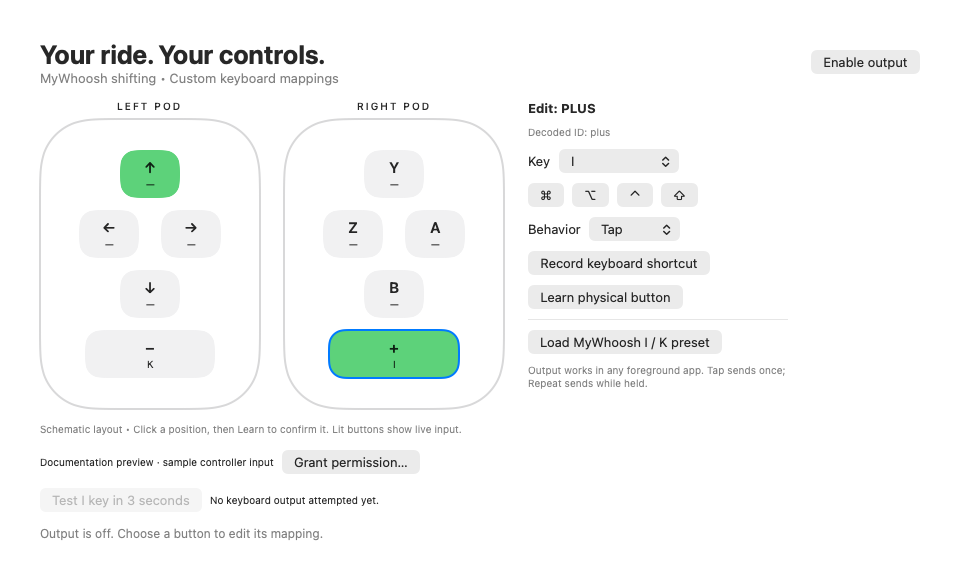
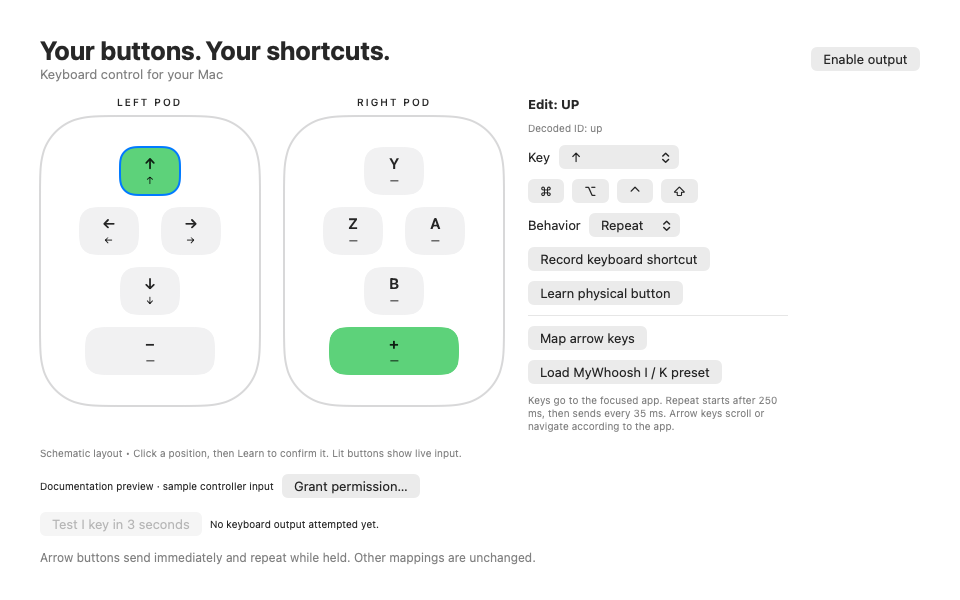
scroll action (long press)

diff --git a/Sources/ClickDiagnostic/Mapping.swift b/Sources/ClickDiagnostic/Mapping.swift
@@ -8,10 +8,28 @@ struct KeyBinding: Codable, Equatable {
     var modifiers: UInt64 = 0
     var mode = "Tap"
     var assigned = false
+    var longPress: String? = nil
+    var scrollSpeed: Int? = nil
     var displayLabel: String {
         guard assigned else { return "—" }
         let flags: [(CGEventFlags, String)] = [(.maskControl, "⌃"), (.maskAlternate, "⌥"), (.maskShift, "⇧"), (.maskCommand, "⌘")]
         return flags.filter { modifiers & $0.0.rawValue != 0 }.map { $0.1 }.joined() + label
+    }
+}
+
+enum KeyboardEvents {
+    static func make(code: UInt16, down: Bool, modifiers: UInt64, repeating: Bool) -> CGEvent? {
+        guard let event = CGEvent(keyboardEventSource: CGEventSource(stateID: .hidSystemState), virtualKey: code, keyDown: down) else { return nil }
+        var flags = CGEventFlags(rawValue: modifiers)
+        // Arrow keys are navigation/function keys, not ordinary printable keys.
+        let arrows: [UInt16: UniChar] = [123: 0xF702, 124: 0xF703, 125: 0xF701, 126: 0xF700]
+        if var character = arrows[code] {
+            flags.formUnion([.maskNumericPad, .maskSecondaryFn])
+            event.keyboardSetUnicodeString(stringLength: 1, unicodeString: &character)
+        }
+        event.flags = flags
+        event.setIntegerValueField(.keyboardEventAutorepeat, value: down && repeating ? 1 : 0)
+        return event
     }
 }
 
@@ -40,7 +58,7 @@ final class Mapper: ObservableObject {
     @Published var permissionStatus = "Checking permissions…"
     var onOutput: ((String) -> Void)?
     private var testWork: DispatchWorkItem?
-    var emit: (UInt16, Bool, UInt64) -> Void = { _, _, _ in }
+    var emit: (UInt16, Bool, UInt64, Bool) -> Void = { _, _, _, _ in }
     func report(_ text: String) { outputStatus = text; onOutput?("Keyboard: " + text) }
     var blockedReason: String {
         if !enabled { return "Output disabled." }
@@ -67,11 +85,10 @@ final class Mapper: ObservableObject {
     init(defaults: UserDefaults = .standard, outputContext: @escaping () -> Bool = Mapper.isOutputContextAllowed) {
         self.defaults = defaults
         self.outputContext = outputContext
-        emit = { [weak self] code, down, flags in
-            guard let event = CGEvent(keyboardEventSource: CGEventSource(stateID: .hidSystemState), virtualKey: code, keyDown: down) else {
+        emit = { [weak self] code, down, flags, repeating in
+            guard let event = KeyboardEvents.make(code: code, down: down, modifiers: flags, repeating: repeating) else {
                 self?.report("Failed to create keyboard event."); return
             }
-            event.flags = CGEventFlags(rawValue: flags)
             event.post(tap: .cghidEventTap)
             if down {
                 let target = NSWorkspace.shared.frontmostApplication?.localizedName ?? "unknown app"
@@ -80,7 +97,20 @@ final class Mapper: ObservableObject {
         }
         sources = defaults.dictionary(forKey: "sources.v1") as? [String: String] ?? Dictionary(uniqueKeysWithValues: Self.slots.map { ($0, $0) })
         if let data = defaults.data(forKey: "bindings.v1"), let saved = try? JSONDecoder().decode([String: KeyBinding].self, from: data) { bindings = saved }
-        else { preset() }
+        else {
+            bindings = Dictionary(uniqueKeysWithValues: Self.slots.map { ($0, KeyBinding()) })
+            navigationPreset()
+        }
+        // Migrate the retired wheel-scrolling configuration to repeating arrow keys.
+        for (slot, var binding) in bindings where binding.longPress != nil {
+            let arrows: [String: (UInt16, String)] = ["Scroll up": (126, "↑"), "Scroll down": (125, "↓"), "Scroll left": (123, "←"), "Scroll right": (124, "→")]
+            if let arrow = arrows[binding.longPress ?? ""] {
+                binding.code = arrow.0; binding.label = arrow.1; binding.assigned = true; binding.mode = "Repeat"
+            }
+            binding.longPress = nil; binding.scrollSpeed = nil
+            bindings[slot] = binding
+        }
+        save()
         focusObserver = NSWorkspace.shared.notificationCenter.addObserver(forName: NSWorkspace.didActivateApplicationNotification, object: nil, queue: .main) { [weak self] _ in self?.releaseAll() }
         sleepObserver = NSWorkspace.shared.notificationCenter.addObserver(forName: NSWorkspace.willSleepNotification, object: nil, queue: .main) { [weak self] _ in self?.enabled = false }
         refreshPermissions()
@@ -161,34 +191,49 @@ final class Mapper: ObservableObject {
         for source in up { stop(source) }
         guard allowed else { releaseAll(); if !down.isEmpty { report(blockedReason) }; return }
         for source in down {
-            guard let slot = Self.slots.first(where: { sources[$0] == source }), let binding = bindings[slot], binding.assigned else { report("\(source) has no keyboard mapping. Only plus/minus are mapped by default."); continue }
-            if binding.mode == "Hold" {
+            guard let slot = Self.slots.first(where: { sources[$0] == source }), let binding = bindings[slot], binding.assigned else { report("\(source) has no keyboard mapping. Choose a key in the mapper."); continue }
+            if binding.mode == "Hold" || binding.mode == "Repeat" {
                 let alreadyHeld = held.values.contains { $0.code == binding.code }
                 held[source] = binding
-                if !alreadyHeld { emit(binding.code, true, binding.modifiers) }
+                if !alreadyHeld { emit(binding.code, true, binding.modifiers, false) }
+                if binding.mode == "Repeat" {
+                    let delay = Timer(timeInterval: 0.25, repeats: false) { [weak self] _ in
+                        guard let self else { return }
+                        guard self.allowed, self.pressed.contains(source) else { self.releaseAll(); return }
+                        self.emit(binding.code, true, binding.modifiers, true)
+                        let timer = Timer(timeInterval: 0.035, repeats: true) { [weak self] _ in
+                            guard let self else { return }
+                            guard self.allowed, self.pressed.contains(source) else { self.releaseAll(); return }
+                            self.emit(binding.code, true, binding.modifiers, true)
+                        }
+                        self.repeating[source] = timer
+                        RunLoop.main.add(timer, forMode: .common)
+                    }
+                    repeating[source] = delay
+                    RunLoop.main.add(delay, forMode: .common)
+                }
             } else {
                 tap(binding)
-                if binding.mode == "Repeat" {
-                    var ticks = 0
-                    repeating[source] = Timer.scheduledTimer(withTimeInterval: 0.15, repeats: true) { [weak self] _ in
-                        guard let self else { return }
-                        guard self.allowed else { self.releaseAll(); return }
-                        ticks += 1
-                        if ticks >= 3 { self.tap(binding) }
-                    }
-                }
             }
         }
+    }
+    func navigationPreset() {
+        releaseAll()
+        for (slot, code, label) in [("up", UInt16(126), "↑"), ("down", 125, "↓"), ("left", 123, "←"), ("right", 124, "→")] {
+            bindings[slot] = KeyBinding(code: code, label: label, mode: "Repeat", assigned: true)
+        }
+        save()
+        message = "Arrow buttons send immediately and repeat while held. Other mappings are unchanged."
     }
     private func tap(_ binding: KeyBinding) {
         // Do not release a key another physical button is holding.
         guard !held.values.contains(where: { $0.code == binding.code }) else { return }
-        emit(binding.code, true, binding.modifiers); emit(binding.code, false, binding.modifiers)
+        emit(binding.code, true, binding.modifiers, false); emit(binding.code, false, binding.modifiers, false)
     }
     private func stop(_ source: String) {
         repeating.removeValue(forKey: source)?.invalidate()
         if let binding = held.removeValue(forKey: source), !held.values.contains(where: { $0.code == binding.code }) {
-            emit(binding.code, false, binding.modifiers)
+            emit(binding.code, false, binding.modifiers, false)
         }
     }
     func releaseAll() { for source in Array(repeating.keys) { stop(source) }; for source in Array(held.keys) { stop(source) } }
@@ -226,8 +271,8 @@ struct MapperView: View {
         VStack(alignment: .leading, spacing: 14) {
             HStack {
                 VStack(alignment: .leading) {
-                    Text("Your ride. Your controls.").font(.largeTitle.bold())
-                    Text("MyWhoosh shifting • Custom keyboard mappings").foregroundStyle(.secondary)
+                    Text("Your buttons. Your shortcuts.").font(.largeTitle.bold())
+                    Text("Keyboard control for your Mac").foregroundStyle(.secondary)
                 }
                 Spacer()
                 Button(mapper.enabled ? "Disable output" : "Enable output") { if mapper.enabled { mapper.enabled = false } else { mapper.enable() } }.buttonStyle(.borderedProminent)
@@ -240,7 +285,7 @@ struct MapperView: View {
                     Text("Decoded ID: \(mapper.sources[mapper.selected] ?? "—")").font(.caption).foregroundStyle(.secondary)
                     Picker("Key", selection: Binding(get: { binding.assigned ? Int(binding.code) : -1 }, set: { code in
                         var value = binding; value.assigned = code >= 0
-                        if let choice = KeyChoice.all.first(where: { Int($0.code) == code }) { value.code = choice.code; value.label = choice.name }
+                        if let choice = KeyChoice.all.first(where: { Int($0.code) == code }) { value.code = choice.code; value.label = choice.name; if (123...126).contains(choice.code) { value.mode = "Repeat" } }
                         mapper.update(value)
                     })) {
                         Text("Unassigned").tag(-1)
@@ -259,8 +304,9 @@ struct MapperView: View {
                     Button(mapper.recording ? "Cancel recording" : "Record keyboard shortcut") { if mapper.recording { mapper.cancelRecording() } else { mapper.recordKey() } }
                     Button(mapper.learning ? "Cancel learning" : "Learn physical button") { mapper.learn() }
                     Divider()
+                    Button("Map arrow keys") { mapper.navigationPreset() }
                     Button("Load MyWhoosh I / K preset") { mapper.preset() }
-                    Text("Output works in any foreground app. Tap sends once; Repeat sends while held.").font(.caption).foregroundStyle(.secondary).fixedSize(horizontal: false, vertical: true)
+                    Text("Keys go to the focused app. Repeat starts after 250 ms, then sends every 35 ms. Arrow keys scroll or navigate according to the app.").font(.caption).foregroundStyle(.secondary).fixedSize(horizontal: false, vertical: true)
                 }.frame(width: 260)
             }
             Text("Schematic layout • Click a position, then Learn to confirm it. Lit buttons show live input.").font(.caption).foregroundStyle(.secondary)

diff --git a/Tests/MapperTests.swift b/Tests/MapperTests.swift
@@ -17,7 +17,12 @@ func XCTAssertGreaterThan(_ actual: Int, _ expected: Int) { precondition(actual 
         suite.testFocusChangeReleasesHeldKeys()
         suite.testPersistenceAndPresetRetainsLearnedSources()
         suite.testRepeatStopsOnRelease()
-        print("Passed 8 mapper checks (fake keyboard event sink).")
+        suite.testRapidPressesAreNotDropped()
+        suite.testOldScrollMappingsBecomeRepeatingArrows()
+        suite.testRepeatCancellation()
+        suite.testArrowEventEncoding()
+        suite.testRepeatUsesKeyDownsUntilRelease()
+        print("Passed 13 mapper checks (fake keyboard event sink).")
     }
     private var suites: [String] = []
     private func testDefaults() -> UserDefaults {
@@ -29,12 +34,14 @@ func XCTAssertGreaterThan(_ actual: Int, _ expected: Int) { precondition(actual 
         for name in suites { UserDefaults.standard.removePersistentDomain(forName: name) }
     }
     private func mapper() -> Mapper {
-        Mapper(defaults: testDefaults(), outputContext: { true })
+        let model = Mapper(defaults: testDefaults(), outputContext: { true })
+        model.preset()
+        return model
     }
     func testPresetTapAndNoDuplicatePackets() {
         let model = mapper()
         var events: [String] = []
-        model.emit = { code, down, _ in events.append("\(code):\(down)") }
+        model.emit = { code, down, _, _ in events.append("\(code):\(down)") }
         model.enabled = true
         model.receive(["plus"]); model.receive(["plus"]); model.receive([])
         XCTAssertEqual(events, ["34:true", "34:false"])
@@ -44,7 +51,7 @@ func XCTAssertGreaterThan(_ actual: Int, _ expected: Int) { precondition(actual 
     func testDisconnectReleasesHeldKeysAndDisarms() {
         let model = mapper()
         var events: [Bool] = []
-        model.emit = { _, down, _ in events.append(down) }
+        model.emit = { _, down, _, _ in events.append(down) }
         model.bindings["plus"]?.mode = "Hold"
         model.enabled = true; model.receive(["plus"])
         XCTAssertEqual(events, [true])
@@ -55,7 +62,7 @@ func XCTAssertGreaterThan(_ actual: Int, _ expected: Int) { precondition(actual 
     func testSharedHeldKeyOnlyReleasesAfterBothButtons() {
         let model = mapper()
         var events: [Bool] = []
-        model.emit = { _, down, _ in events.append(down) }
+        model.emit = { _, down, _, _ in events.append(down) }
         let binding = KeyBinding(code: 34, label: "I", mode: "Hold", assigned: true)
         model.bindings["plus"] = binding; model.bindings["minus"] = binding
         model.enabled = true
@@ -73,18 +80,18 @@ func XCTAssertGreaterThan(_ actual: Int, _ expected: Int) { precondition(actual 
     func testDisabledAndBlockedContextDoNotEmit() {
         let model = mapper()
         var count = 0
-        model.emit = { _, _, _ in count += 1 }
+        model.emit = { _, _, _, _ in count += 1 }
         model.receive(["plus"]); model.receive([])
         XCTAssertEqual(count, 0)
         let blocked = Mapper(defaults: testDefaults(), outputContext: { false })
-        blocked.emit = { _, _, _ in count += 1 }
+        blocked.emit = { _, _, _, _ in count += 1 }
         blocked.enabled = true; blocked.receive(["plus"])
         XCTAssertEqual(count, 0)
     }
     func testFocusChangeReleasesHeldKeys() {
         let model = mapper()
         var events: [Bool] = []
-        model.emit = { _, down, _ in events.append(down) }
+        model.emit = { _, down, _, _ in events.append(down) }
         model.bindings["plus"]?.mode = "Hold"
         model.enabled = true; model.receive(["plus"])
         NSWorkspace.shared.notificationCenter.post(name: NSWorkspace.didActivateApplicationNotification, object: nil)
@@ -106,16 +113,82 @@ func XCTAssertGreaterThan(_ actual: Int, _ expected: Int) { precondition(actual 
     func testRepeatStopsOnRelease() {
         let model = mapper()
         var count = 0
-        model.emit = { _, _, _ in count += 1 }
+        model.emit = { _, _, _, _ in count += 1 }
         model.bindings["plus"]?.mode = "Repeat"
         model.enabled = true; model.receive(["plus"])
-        XCTAssertEqual(count, 2)
+        XCTAssertEqual(count, 1)
         RunLoop.main.run(until: Date().addingTimeInterval(0.52))
         XCTAssertGreaterThan(count, 2)
         model.receive([])
         let afterRelease = count
         RunLoop.main.run(until: Date().addingTimeInterval(0.2))
         XCTAssertEqual(count, afterRelease)
+    }
+
+
+    func testRapidPressesAreNotDropped() {
+        let model = mapper()
+        var events = 0
+        model.emit = { _, _, _, _ in events += 1 }
+        model.bindings["plus"]?.mode = "Repeat"
+        model.enabled = true
+        for _ in 0..<30 { model.receive(["plus"]); model.receive([]) }
+        XCTAssertEqual(events, 60)
+        RunLoop.main.run(until: Date().addingTimeInterval(0.3))
+        XCTAssertEqual(events, 60)
+    }
+    func testOldScrollMappingsBecomeRepeatingArrows() {
+        let defaults = testDefaults()
+        let old = ["up": KeyBinding(code: 49, label: "Space", assigned: true, longPress: "Scroll up", scrollSpeed: 4)]
+        defaults.set(try! JSONEncoder().encode(old), forKey: "bindings.v1")
+        let model = Mapper(defaults: defaults, outputContext: { true })
+        XCTAssertEqual(model.bindings["up"]?.code, 126)
+        XCTAssertEqual(model.bindings["up"]?.mode, "Repeat")
+        XCTAssertEqual(model.bindings["up"]?.longPress, nil)
+    }
+    func testRepeatCancellation() {
+        for cancel in ["disable", "disconnect", "focus"] {
+            let model = mapper()
+            var count = 0
+            model.emit = { _, _, _, _ in count += 1 }
+            model.navigationPreset()
+            model.enabled = true; model.receive(["up"])
+            RunLoop.main.run(until: Date().addingTimeInterval(0.4))
+            XCTAssertGreaterThan(count, 3)
+            switch cancel {
+            case "disable": model.enabled = false
+            case "disconnect": model.disconnected()
+            default: NSWorkspace.shared.notificationCenter.post(name: NSWorkspace.didActivateApplicationNotification, object: nil)
+            }
+            let stopped = count
+            RunLoop.main.run(until: Date().addingTimeInterval(0.12))
+            XCTAssertEqual(count, stopped)
+        }
+    }
+    func testArrowEventEncoding() {
+        for (code, character) in [(UInt16(123), UniChar(0xF702)), (124, 0xF703), (125, 0xF701), (126, 0xF700)] {
+            let event = KeyboardEvents.make(code: code, down: true, modifiers: CGEventFlags.maskShift.rawValue, repeating: true)!
+            XCTAssertTrue(event.flags.contains(.maskNumericPad))
+            XCTAssertTrue(event.flags.contains(.maskSecondaryFn))
+            XCTAssertTrue(event.flags.contains(.maskShift))
+            XCTAssertEqual(event.getIntegerValueField(.keyboardEventAutorepeat), 1)
+            var length = 0; var actual: UniChar = 0
+            event.keyboardGetUnicodeString(maxStringLength: 1, actualStringLength: &length, unicodeString: &actual)
+            XCTAssertEqual(length, 1); XCTAssertEqual(actual, character)
+        }
+    }
+    func testRepeatUsesKeyDownsUntilRelease() {
+        let model = mapper()
+        var events: [String] = []
+        model.emit = { _, down, _, repeating in events.append("\(down):\(repeating)") }
+        model.navigationPreset(); model.enabled = true
+        model.receive(["down"])
+        XCTAssertEqual(events, ["true:false"])
+        RunLoop.main.run(until: Date().addingTimeInterval(0.4))
+        XCTAssertGreaterThan(events.count, 2)
+        XCTAssertTrue(events.dropFirst().allSatisfy { $0 == "true:true" })
+        model.receive([])
+        XCTAssertEqual(events.last, "false:false")
     }
 
 }

diff --git a/README.md b/README.md
@@ -100,6 +100,8 @@ Reopen the app, grant access, then fully quit and reopen once more. The reset sc
 
 **No keyboard output:** enable output, focus another application, and check the selected button's mapping. Use **Test I key in 3 seconds**, then focus a blank TextEdit document to test output independently of Bluetooth. The output status and diagnostic log report blocked input and attempted key delivery.
 
+**Arrow scrolling moves only once or feels slow:** check that the mapped arrow button uses **Repeat**, not **Tap**. Saved Tap mappings remain Tap across upgrades. Choose **Map arrow keys** to configure all four directions for held-key repeat without changing other buttons.
+
 ## Development
 
 Run the mapping checks with:
